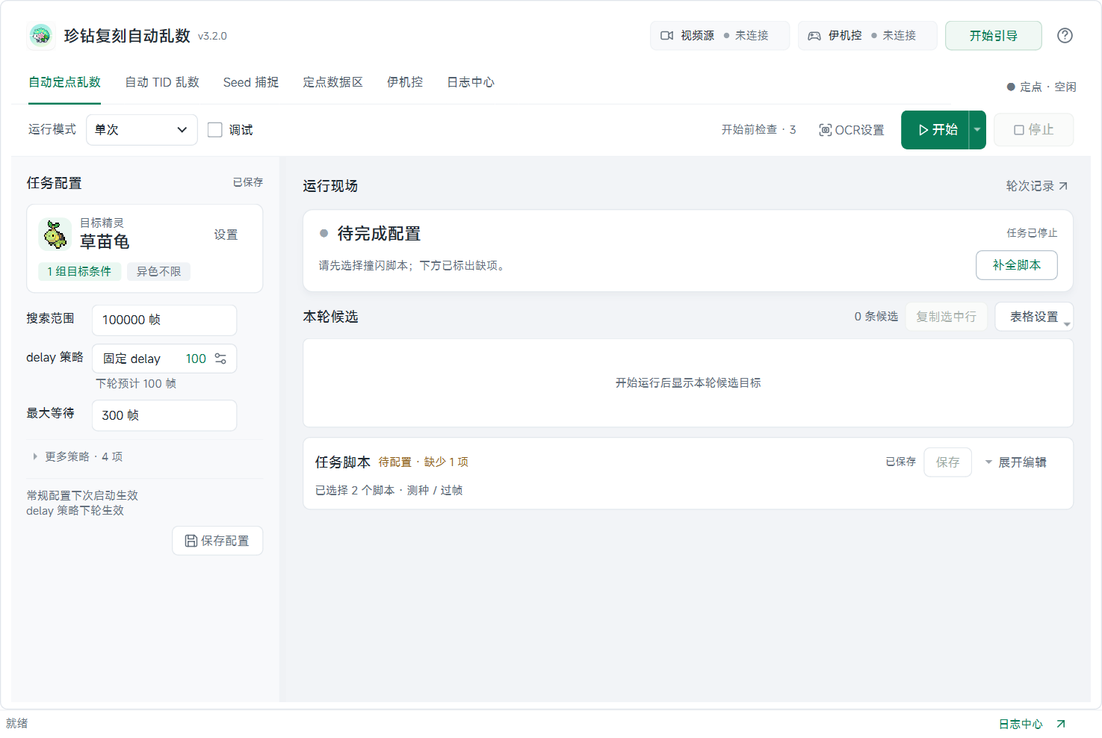
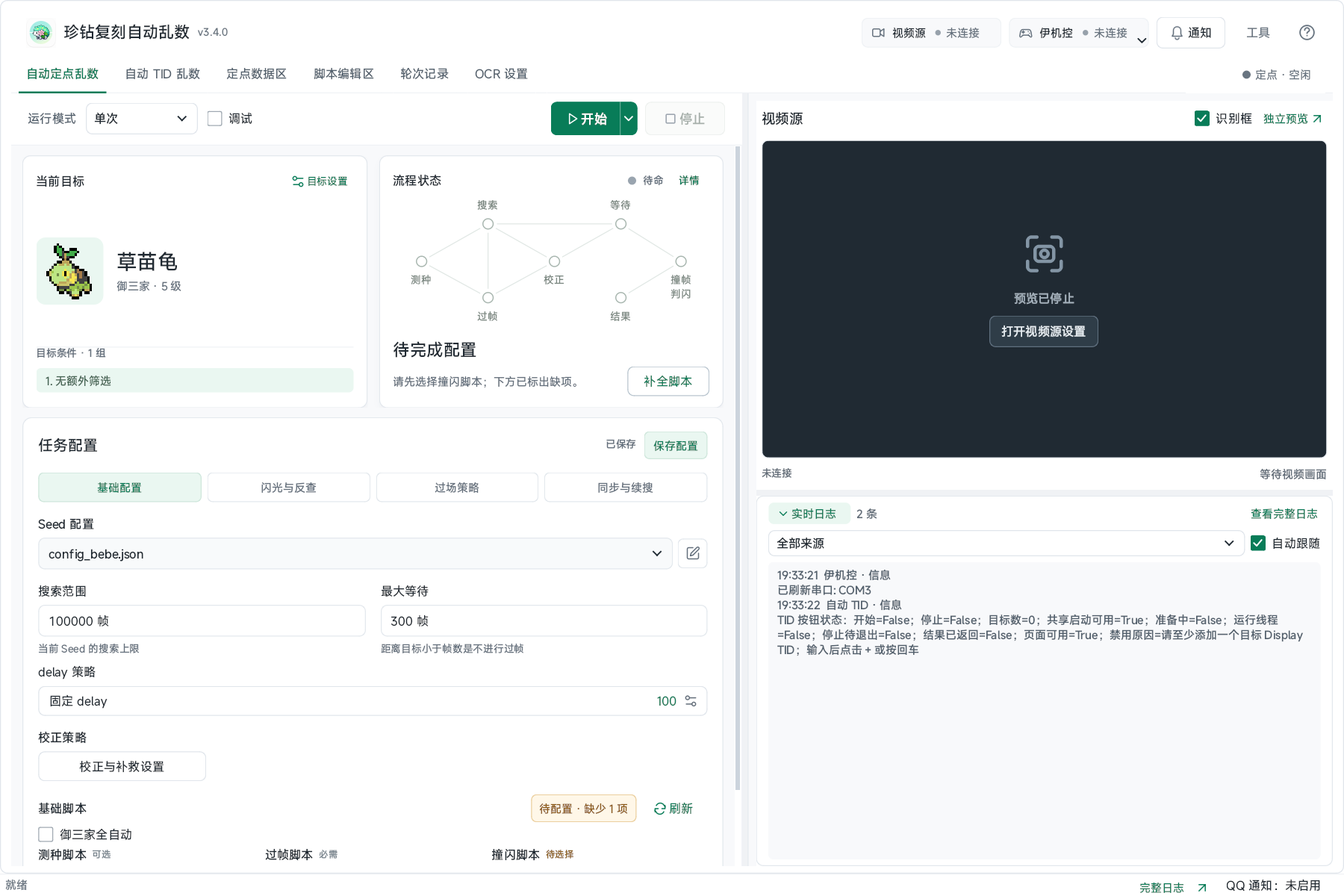
chore：准备 v3.4.0 发布并同步文档

diff --git a/src/auto_bdsp_rng/__init__.py b/src/auto_bdsp_rng/__init__.py
@@ -2,4 +2,4 @@
 
 __all__ = ["__version__"]
 
-__version__ = "3.3.3"
+__version__ = "3.4.0"

diff --git a/README.md b/README.md
@@ -26,21 +26,21 @@
 
 ![自动定点乱数工作区](docs/assets/screenshots/workspace.png)
 
-<p align="center"><sub>v3.3.0 源码的实际界面，展示未连接设备时的初始状态。</sub></p>
+<p align="center"><sub>v3.4.0 源码的实际界面，展示未连接设备时的初始状态。</sub></p>
 
-当前源码采用更宽的视频监看区域与整窗六页导航。自动定点在同一页展示目标卡片、流程状态和任务配置。[查看工作区布局与验收说明](docs/ui_rng_workspace_redesign.md)。
+v3.4.0 采用更宽的视频监看区域与整窗六页导航，新增御三家全自动，搜索与轮次记录支持后台处理和分页。自动定点在同一页展示目标卡片、流程状态和任务配置。[查看 3.4.0 更新说明](CHANGELOG.md#340) · [工作区布局与验收说明](docs/ui_rng_workspace_redesign.md)。
 
 ## 主要功能
 
 | 功能 | 可以做什么 |
 | --- | --- |
 | **自动定点乱数** | 串联测种、搜索、过帧、校正、撞闪、OCR 判闪与反查，支持多目标、单次及循环运行。 |
-| **御三家全自动** | 自动绑定测种与反查脚本，接管固定对话、Timeline、光标定位和精灵选择，未出闪后反查并循环。源码版可用，详见[使用指南](docs/USAGE.md#御三家全自动)。 |
+| **御三家全自动** | 自动绑定测种与反查脚本，接管固定对话、Timeline、光标定位和精灵选择，未出闪后反查并循环。v3.4.0 新增，详见[使用指南](docs/USAGE.md#御三家全自动)。 |
 | **自动 TID 乱数** | 搜索多个 Display TID，查看预计到达时间和取名倒计时，自动触发取名脚本。 |
 | **Seed 捕捉与定点搜索** | 基于 Project_Xs 眨眼恢复 Seed，按 PokeFinder 口径生成、筛选定点与游走候选。 |
 | **脚本与键盘控制** | 编辑、运行和录制 EasyCon 风格脚本，用键盘控制主机并自定义按键映射。 |
 | **OCR 与 delay 策略** | 识别性格、个性和能力值；按精灵保存反查样本，选择固定或动态 delay 策略。 |
-| **轮次记录与日志** | 查看每轮候选、运行结果和实际 delay，按来源与关键词筛选日志、复制或导出记录。 |
+| **轮次记录与日志** | 分页查看每轮候选、运行结果和实际 delay；独立日志窗口支持按轮次、来源与关键词筛选、复制或导出。 |
 | **QQ 通知** | 通过 QQ 开放平台机器人接收任务完成、异常和运行截图；支持私聊、群聊、图文测试与软件内绑定教程。 |
 
 ## 下载与安装
@@ -49,7 +49,7 @@
 
 下载入口始终指向最新已发布的正式版；请以 Release 页的版本号和 **Assets** 为准。
 
-v3.3.3 的源码改进包括自动 TID 取名时机、退出参数保存、开始按钮状态和跨电脑界面一致性修复。在该版本安装包发布前，这些改进仅在源码版可用。[查看本次更新 →](CHANGELOG.md#333)
+当前源码版本为 **v3.4.0**。在 v3.4.0 安装包发布前，本文介绍的御三家全自动、新工作区与响应性改进仅在源码版可用；下载入口仍以最新已发布的 Assets 为准。[查看本次更新 →](CHANGELOG.md#340)
 
 1. 在最新正式版 Release 页的 **Assets** 中下载 `auto-bdsp-rng-v<版本号>-windows-x64.zip`。
 2. 完整解压，进入 `auto-bdsp-rng` 文件夹。
@@ -78,17 +78,17 @@ v3.3.1 支持 Gitee 增量更新源：优先从国内源检查和下载增量更
 
 1. **连接画面** — 点击顶部「视频源」入口，选择采集卡并连接，优先使用「Media Foundation（推荐）」。
 2. **验证控制** — 点击顶部「伊机控」连接串口，用键盘控制或短脚本确认主机能收到按键。
-3. **完成测种** — 点击任务页 Seed 配置右侧的编辑按钮，在右侧视频中框选眼睛 ROI、截取眼睛模板，用「测试捕捉」验证并保存。独立手动操作从「工具 → 手动测种与校正」进入。
+3. **完成测种** — 点击任务页 Seed 配置右侧的编辑按钮，在右侧视频中框选眼睛 ROI、截取眼睛模板，用「测试捕捉」验证并保存。御三家全自动使用固定模板，仅调整 ROI 和匹配阈值。独立手动操作从「工具 → 手动测种与校正」进入。
 4. **核对识别与脚本** — 在 OCR 设置中执行「测试全部」，核对性格、个性和六项能力值；判闪计时区域单独测试。按游戏站位逐份验证所选脚本。
-5. **运行一次** — 在「自动定点乱数」中设置目标、筛选条件、脚本和基准 delay，完成开始前检查，选择「单次」后点击「开始」。
+5. **运行一次** — 在「自动定点乱数」中设置目标、筛选条件、脚本和基准 delay，选择「单次」后点击「开始」，按自动检查提示补齐配置。
 
 脚本和 delay 需要结合设备响应、游戏站位与队伍配置校准。建议先确认单次流程能够正常完成，再开启循环。自动 TID 的准备步骤见[自动 TID 使用说明](docs/USAGE.md#自动-tid-乱数)。
 
-> **v3.3.0 新增：QQ 通知与软件内绑定教程**
+> **QQ 通知与软件内绑定教程**
 >
-> 当前源码已加入 QQ 开放平台机器人通知。先打开 [QQ 开放平台机器人管理](https://q.qq.com/#/apps)，再在软件教程内填写 AppID、AppSecret，绑定私聊或群聊，等待动态更新的 60 秒绑定码，并发送带软件 Logo 的图文测试；自动乱数任务完成或异常时可接收通知。此功能已随 v3.3.0 发布。[了解 QQ 通知 →](docs/QQ_BOT_SETUP.md)
+> 先打开 [QQ 开放平台机器人管理](https://q.qq.com/#/apps)，再在软件教程内填写 AppID、AppSecret，绑定私聊或群聊，使用动态更新的 60 秒绑定码，并发送带软件 Logo 的图文测试；自动乱数任务完成或异常时可接收通知。此功能自 v3.3.0 起可用。[了解 QQ 通知 →](docs/QQ_BOT_SETUP.md)
 
-当前源码暂时移除引导模式，首次启动可直接进入工作区。脚本执行跟随、暂停修改和开始前检查继续可用。[查看使用步骤 →](docs/USAGE.md#首次使用)
+v3.4.0 移除旧分步引导模式，首次启动可直接进入工作区。脚本执行跟随、暂停修改和启动时自动检查继续可用。[查看使用步骤 →](docs/USAGE.md#首次使用)
 
 ## 文档
 
@@ -96,6 +96,7 @@ v3.3.1 支持 Gitee 增量更新源：优先从国内源检查和下载增量更
 | --- | --- |
 | 视频源、眼睛框选、测种与校正 | [使用指南](docs/USAGE.md#视频源与预览) |
 | 自动定点、delay、OCR 与反查 | [自动定点乱数](docs/USAGE.md#自动定点乱数) · [OCR](docs/USAGE.md#ocr) |
+| 御三家全自动的配置与时序限制 | [御三家全自动](docs/USAGE.md#御三家全自动) |
 | 脚本、录制与虚拟手柄快捷键 | [伊机控与脚本](docs/USAGE.md#伊机控与脚本) |
 | 轮次结果、错误与运行日志 | [轮次记录与日志](docs/USAGE.md#轮次记录与日志) |
 | 源码环境、CLI 与测试 | [开发指南](docs/DEVELOPMENT.md) |
@@ -123,6 +124,13 @@ v3.3.1 支持 Gitee 增量更新源：优先从国内源检查和下载增量更
 <summary><strong>能直接使用别人的 delay，或开着循环就保证出闪吗？</strong></summary>
 
 实际时序受设备、脚本和游戏现场影响，需要先验证测种、校正与判闪。动态 delay 依赖成功自动反查得到的有效样本，没有样本时使用基准值；每轮 delay 在轮次开始时冻结。长时间运行也需要避免 Windows 休眠。[策略与运行说明 →](docs/USAGE.md#自动定点乱数)
+
+</details>
+
+<details>
+<summary><strong>可以解压到中文目录吗？</strong></summary>
+
+v3.4.0 修复中文和含空格路径下的图片保存与 OCR 初始化问题，无需修改 Windows 区域设置。模型需要英文路径时，软件会自动准备可写缓存；特殊权限环境可指定缓存目录。[OCR 与缓存说明 →](docs/USAGE.md#ocr)
 
 </details>
 

diff --git a/CHANGELOG.md b/CHANGELOG.md
@@ -1,3 +1,52 @@
+# 3.4.0
+
+本次汇总 v3.3.3 之后的 37 个提交（截至 `08cd090`），新增御三家全自动流程，重整工作区、轮次记录和日志，并改善大范围搜索、设备操作及中文路径下的 OCR 体验。
+
+### 御三家全自动
+
+- 选择同一种草苗龟、小火焰猴或波加曼后，可在「任务配置 → 基础配置 → 基础脚本」开启「御三家全自动」。软件自动绑定内置测种、反查脚本，接管固定对话、Timeline、光标定位和精灵选择，无需另选过帧或撞闪脚本；支持单次、指定次数和无限循环。
+- 固定使用 `config_starter.json`，仅开放眼睛 ROI 和匹配阈值编辑，眼睛模板与流程时序锁定；临时应用的时序不会改写配置文件，关闭全自动后恢复普通配置选择。
+- 首次启用且没有已有 delay 配置或样本时，预设 delay 为 66 帧；每轮开始冻结 delay，反查样本从下一轮生效。固定 200 帧 Timeline 窗口要求实际 delay 小于 78 帧，启动及轮次切换时会检查。
+- 御三家判闪阈值默认改为 5 秒，并与普通定点分别保存；旧默认 4 秒迁移为 5 秒，其他自定义值保留。疑似出闪后录像并停止，判定未知或关键对话失败时停止。
+- 搜索时为退出放大模式、OCR 确认和固定对话预留准备时间，跳过来不及的目标。错过时机不再选择精灵或执行反查，轮次记录明确标为「错过」；手动停止按停止阶段记录，不误报失败或未出闪。
+- 同步内置及脚本库的御三家反查脚本到 `bdsp-starter-reverse 0.0.5`。
+
+### 工作区与配置
+
+- 主导航调整为「自动定点乱数」「自动 TID 乱数」「定点数据区」「脚本编辑区」「轮次记录」「OCR 设置」六页，右侧视频和实时日志在切页时持续显示；窄窗口下表单自动调整布局。
+- 自动定点用目标卡片和流程状态展示本轮进度，实时帧数、阶段记录及候选从「详情」查看；任务参数、策略和脚本按组整理，脚本选择支持名称关键词搜索。自动定点与 TID 的「保存配置」统一保存参数和脚本选择。
+- Seed 配置在任务页直接展开编辑、测试捕捉、保存或取消；独立测种与校正从「工具 → 手动测种与校正」进入。视频上叠加可复制 Seed、当前 RNG 帧数、匹配分数、阈值和眨眼进度，框选时隐藏，原始画面与截图不受影响。
+- OCR 设置移至独立标签页，集中宝可梦信息、判闪计时与 TID 区域，切页保留配置和测试结果；可直接使用右侧视频框选和识别。
+- 定点数据区合并目标、队首、Seed 和范围表单，筛选条件可折叠；手动生成后收起条件，自动回填与后台刷新保留用户展开状态，摘要显示实际用于搜索的参数。
+- 移除旧分步引导模式和常驻的「开始前检查」按钮，首次启动直接进入工作区；启动任务仍自动检查设备、眼图、脚本和 OCR，QQ 通知绑定教程继续可用。
+
+### 伊机控与脚本
+
+- 连接设置、虚拟手柄和按键映射集中到顶部全局「伊机控」菜单，所有工作区均可访问。虚拟手柄使用独立浮窗，脚本编辑器获得更多空间；菜单展开时映射按键用于菜单操作，关闭后恢复原控制或待机状态。
+- 优化紧凑工具栏、脚本库、可折叠输出和运行状态，保留录制、执行跟随及暂停后修改未执行代码的能力；脚本报错可定位主脚本或库文件对应行。
+
+### 轮次记录与日志
+
+- 「轮次记录」直接展示每轮结果、Seed、锁定 Adv、完整候选快照和处理详情；「查看本轮日志」打开独立完整日志窗口并定位所选运行与轮次。
+- 修复新轮次沿用旧候选、过滤后快照与锁定目标不一致，以及反查结果覆盖原搜索候选计数的问题；搜索候选和反查匹配数分别记录。
+- 实时日志可按来源筛选、折叠和恢复；完整日志窗口支持来源、级别、关键词、复制和导出，关闭窗口后继续收集。警告与错误显示待查看数量，任务入口与历史轮次入口保留各自筛选上下文。
+- 轮次、候选及处理详情每页最多 100 条，完整快照保存在会话临时存储中；搜索、复制和导出覆盖全部记录。退出后释放临时历史，需要留存时请提前导出；磁盘运行日志仍按最近七个自然日保存。
+
+### 响应性与稳定性
+
+- 定点与 TID 大范围查询在后台执行，支持取消并丢弃过期结果；结果超过 200 条时分页，大量数据的排序、筛选和前缀查找覆盖全部页，保留当前个体选择及目标定位。
+- 大量结果、轮次记录的完整复制和导出在后台准备，可在准备阶段取消；取消或准备失败保留原剪贴板和已有文件。导出进入保存阶段后完成本次保存，关闭程序会等待保存结果。
+- 优化视频预览、首帧等待、设备枚举、连接取消和后台断开；快速切换来源不再显示旧画面或旧 OCR 结果，无缓存时的框选与 TID 识别可以取消。修复 Windows 虚拟环境启动视频源时进程号不一致的问题。
+- Seed 校正支持取消原生及 Python 回退计算；自动校正先搜索预计帧附近，未命中时复用观测扩大范围，减少长距离过帧后的漏搜。
+- 减少高频脚本输出的界面事件，超长内容仅保留显示尾部并提示截断；启用磁盘日志时保留完整输出。开启日志保存后，持续超过 2 秒的界面卡顿会留下线程堆栈诊断，便于定位问题。
+
+### 中文路径与升级提示
+
+- 修复中文或含空格目录下的图片读取、截图保存、眼睛模板更新与 OCR 初始化；模板写入失败时保留旧文件。Paddle 模型和伊机控 Tesseract 语言数据在需要时使用经过校验的英文缓存路径，无需修改 Windows 区域设置。
+- 保留可写的 `PADDLE_PDX_CACHE_HOME`；缓存目录只读、不兼容或路径过长时自动选择其他可写位置。特殊环境可通过 `AUTO_BDSP_RNG_NATIVE_CACHE_HOME` 指定可写的纯英文绝对路径，首次准备缓存可能稍慢。
+- 更新首页截图、使用指南、开发与发布检查说明；打包校验覆盖中文安装目录、空格路径及实际 OCR 推理。
+- 旧版可从「帮助 → 检查更新…」升级；没有可用增量链时下载完整绿色包。用户修改过的脚本、Project_Xs 配置和自定义眼图继续保留，新默认文件可能以 `.new-v3.4.0` 副本提供；使用自定义御三家反查脚本时请对照新版后再合并。
+
 # 3.3.3
 
 本次汇总 v3.3.2 之后的自动 TID、跨电脑界面一致性和发布打包修复。

diff --git a/RELEASE.md b/RELEASE.md
@@ -23,7 +23,45 @@ Before the new package is published, identify features documented from `main` as
 
 Review every commit from the latest published tag through the release commit. Summarize the final user-visible behavior in the new changelog section, including fixes already committed to `main` but absent from the last package; omit abandoned approaches and unrelated local drafts.
 
+Also review `README.md`, `docs/USAGE.md`, `docs/DEVELOPMENT.md`, `BUILD.md`, and this checklist for changed entry points, defaults, and operational behavior. Refresh the README screenshot when the workspace layout changes and update `docs/assets/screenshots/README.md` with the actual version and capture conditions. Historical changelog entries and dated design evidence describe their original versions and should not be rewritten as current behavior.
+
 The release workflow refuses to publish when the pushed tag, `pyproject.toml`, package `__version__`, and matching changelog heading disagree.
+
+## v3.4.0 Release Scope
+
+The previous published release is **v3.3.3** (`5af44d2`, published 2026-10-03).
+This release reviews all **37 commits** in `v3.3.3..08cd090`, followed by the
+v3.4.0 metadata and documentation commit. The user-facing notes live only in
+the [3.4.0 changelog section](CHANGELOG.md#340); the workflow generates the
+GitHub Release body from that section.
+
+This is a minor release for the new starter automation and workspace behavior.
+Review these release-specific cases in addition to the general checks below:
+
+- Exercise all three starter species, built-in script/config binding, ROI/threshold-only editing, existing delay preservation, the 66-frame initial preset, the strict delay `< 78` limit, and the separate 5-second shiny threshold. Verify successful reverse lookup, missed targets, unknown shiny checks, and user stop; missed targets must not select a Pokemon or run reverse lookup.
+- Check all six workspace tabs, inline Seed configuration, the manual tools entry, standalone OCR settings, global controller menu, script error navigation, and direct welcome-page entry. The removed RNG guide must not restart from old settings; the QQ tutorial must still work.
+- Check static/TID pagination, whole-result sorting/search, target selection, cancellation, and clipboard/CSV/TXT output. Copy/export must include all applicable results, preserve old content on preparation cancellation, and complete a save already in progress before shutdown.
+- Check new-round candidate refresh, locked-target snapshots, separate search/reverse counts, and historical round log context. Verify 100-row history pages and full export before session history is released on exit.
+- Check slow device enumeration, connect/cancel/disconnect, source switching, first-frame cancellation, and shutdown with real capture/serial hardware. Confirm stopped calibration does not retry and old frames/OCR results cannot replace the new source.
+- Run the packaged Chinese/space-path image and real OCR probes, including a Chinese user profile and unwritable cache fallback. Confirm both bundled starter scripts and the Project_Xs template exist in the frozen package.
+- Apply the v3.3.3-to-v3.4.0 update to a disposable copy with modified scripts, Project_Xs configs, and custom eye images. Existing files must survive; changed defaults use `.new-v3.4.0` sidecars. Export needed session history before closing the old app.
+
+Expected artifacts are `auto-bdsp-rng-v3.4.0-windows-x64.zip`,
+`auto-bdsp-rng-v3.4.0-windows-x64.manifest.json`, and, when the v3.3.3 manifest
+is available, `auto-bdsp-rng-v3.3.3-to-v3.4.0-windows-x64.update.zip`.
+Automated tests and offscreen screenshots do not establish real-hardware or
+frozen-package validation; record those results from their actual runs.
+
+Local preparation verified on 2026-10-12: the complete pytest suite finished
+with **2,374 passed, 1 skipped, 0 failed**. The skipped sidecar-path case requires
+Windows symbolic-link creation privileges (`WinError 1314`); the run also
+reported existing Qt `invalidateFilter()` deprecation warnings. The CLI reports
+3.4.0, the release-notes generator accepts `v3.4.0`, and UTF-8, local document
+links, and Git whitespace checks pass. The README screenshot was rendered and
+inspected at 1440 × 960 logical pixels / DPR 1.25 with isolated settings and
+no connected hardware. Frozen-package builds, real-hardware checks, and an
+actual v3.3.3 package upgrade remain to be performed; local preparation does
+not publish the GitHub Release.
 
 ## Build And Test
 
@@ -53,8 +91,8 @@ Confirm:
 - `release/auto-bdsp-rng-vX.Y.Z-windows-x64.zip` exists,
 - `release/auto-bdsp-rng-vX.Y.Z-windows-x64.manifest.json` exists and lists the complete `dist/auto-bdsp-rng/` tree,
 - `release/release-notes.md` shows the intended **本次更新** content.
-- “帮助 -> 检查更新…” performs a manual check without any startup network request; source mode only offers the Release page.
-- the shared light UI style and bounded chevrons render consistently at 100%, 125%, and 150% scaling; the log view buttons and session status stay aligned at 860×600 and 1150×900, and view switching, unread counts, and split-button menus remain functional,
+- “帮助 -> 检查更新…” performs a manual check; startup checks follow “帮助 -> 启动时自动检查更新” (enabled by default), show a prompt only for a newer release, and respect the saved opt-out. Source mode only offers the Release page.
+- the shared light UI style and bounded chevrons render consistently at 100%, 125%, and 150% scaling; the six tabs, monitor, real-time log, and independent full-log window remain usable at 860×600 and 1150×900, with working pagination, unread counts, per-round log context, and split-button menus,
 - both sponsor QR images were restored and verified by the build; private images remain excluded from Git.
 
 To test an incremental artifact locally, download the previous Release manifest and run:

diff --git a/docs/DEVELOPMENT.md b/docs/DEVELOPMENT.md
@@ -39,9 +39,19 @@ py -3.12 -m venv .venv
 
 - 主程序通过 `ui/workspace_style.py` 在创建页面前统一安装基于 Fusion 的浅色 Qt 风格。箭头使用固定逻辑尺寸的线条绘制，不依赖 Windows 系统风格插件；保留 `ui_scale.py` 的 DPI 和界面倍率处理。
 - 页面仍复用 `ui/workspace_theme.py` 的颜色、尺寸及随包 MiSans 字体。主导航的 QSS 只作用于直接子标签栏，避免把样式传到内嵌页面。
-- 日志页切换按钮和会话状态由同一个水平布局管理，避免组合原生标签栏底线与角落控件。业务页面切换、未读计数和轮次过滤沿用现有逻辑。
+- v3.4.0 将轮次记录留在主导航，完整日志由共享 `RunLogBuffer` 驱动的独立非模态窗口展示，右栏保留实时日志。任务、历史轮次和实时区入口分别传入运行/轮次或来源上下文；窗口关闭后继续收集消息，警告与错误的未读提示由共享状态更新。
 - 延迟更新布局时给 `QTimer.singleShot` 传入控件上下文，确保控件销毁后取消回调。
-- 涉及控件绘制或布局的改动，至少检查 100%、125%、150% 缩放及 860×600、1150×900 窗口；相关回归测试为 `test_workspace_style.py`、`test_run_records_ui.py`、`test_responsive_layout.py` 和 `test_ui_font_loading.py`。
+- 涉及控件绘制或布局的改动，至少检查 100%、125%、150% 缩放及 860×600、1150×900 窗口；相关回归测试为 `test_workspace_style.py`、`test_run_records_ui.py`、`test_log_window_ui.py`、`test_responsive_layout.py` 和 `test_ui_font_loading.py`。
+
+## 搜索、结果与历史记录
+
+定点与 TID 查询使用后台工作线程和请求代次，取消或收到新 Seed 后不再应用旧结果。原生生成和校正释放 GIL，并通过取消令牌终止；Python 回退保留同一取消语义。更新原生接口后应重新执行 editable install，避免本机残留的旧 `_native.pyd` 掩盖接口变化。
+
+`ui/result_paging.py` 将定点与 TID 表限制为每页 200 行，排序、筛选和前缀查找基于完整数据；选中项以原始结果身份恢复。`ui/result_transfer.py` 在点击时固定结果、语言、能力值和日期基准，在后台准备完整复制或导出；准备阶段取消或失败时保留原剪贴板和已有文件，进入写入提交阶段后等待终态，以原子替换完成保存。
+
+`ui/history_archive.py` 为会话历史提供临时归档，轮次、候选与处理详情每页最多 100 条。生产端在后台整理快照，归档积压时等待容量，取消时解除等待；归档失败回滚并保留可用的内存记录。全量搜索、复制和导出独立于当前可见页，退出时释放临时存储。
+
+相关回归覆盖 `test_search_performance.py`、`test_result_transfer.py`、`test_reidentify_cancellation.py`、`test_history_performance.py` 及 `test_history_producer_*.py`。大量结果的布局可用 `scripts/render_search_results_review.py --dpi 100`（另验 125、150）检查；`scripts/benchmark_history_ui.py` 用于历史归档与界面响应基准，实测结果应连同机器条件记录。
 
 ## 视频、关闭与日志响应性
 

diff --git a/BUILD.md b/BUILD.md
@@ -18,6 +18,12 @@ Clone the repository with submodules, or let the build script initialize them:
 git submodule update --init --recursive
 ```
 
+Build distributable packages from a clean checkout, including submodules.
+The builder copies Project_Xs configs and images as well as the outer `script`
+directory, so a development checkout can include personal calibration or custom
+eye images. Preserve those local files and use a separate clean checkout or the
+GitHub Actions tag build for publication.
+
 ## One-Command Build
 
 ```powershell
@@ -89,11 +95,37 @@ The application packages its Python EasyCon parser/runtime, `pyserial`, and the 
 
 ## First-launch WebView
 
-The first-launch mode chooser uses PySide6 Qt WebEngine and QWebChannel to load
+The first-launch welcome page uses PySide6 Qt WebEngine and QWebChannel to load
 `docs/assets/welcome/index.html` locally. The existing PySide6 collection and
 PyInstaller Qt WebEngine hooks collect the Chromium helper process and runtime
 resources; the `docs/assets` release-copy step includes the HTML page. Keep these
 files with the executable. The page uses system fonts and does not fetch web assets.
+Starting with v3.4.0, it opens the workspace directly; the old experience-level
+chooser and step-by-step RNG guide are removed. The QQ binding tutorial still
+uses WebEngine, so its runtime and tutorial assets remain required.
+
+## v3.4.0 Runtime Assets
+
+Rebuild the C++ extension from this release's sources. Generation and
+reidentification now expose cancellation support; do not reuse an older
+`_native.pyd` when validating the release.
+
+The starter automation requires both `seed.ecs` and `reverse.ecs` under
+`auto_bdsp_rng/automation/auto_rng/starter_assets`, plus the bundled Project_Xs
+`config_starter.json` and its eye template. Keep the separate user-editable
+`script/御三家反查.txt` in the outer script directory. Automatic starter mode
+uses the bundled scripts even when a user has customized the outer copy.
+
+The release notes are generated from the current changelog after version
+validation:
+
+```powershell
+python .\scripts\generate_release_notes.py --tag v3.4.0 --output .\release\release-notes.md
+```
+
+The expected complete archive is `release/auto-bdsp-rng-v3.4.0-windows-x64.zip`.
+Use a manifest from v3.3.3 to check the direct incremental upgrade; see
+[RELEASE.md](RELEASE.md) for the publication and regression checklist.
 
 ## UI And Sponsor Assets
 

diff --git a/docs/assets/screenshots/README.md b/docs/assets/screenshots/README.md
@@ -1,11 +1,14 @@
 # README 界面截图
 
-`workspace.png` 为 v3.3.0 源码在 Windows 下直接渲染的 PySide6
-主窗口，逻辑尺寸 1180 × 790，DPR 1.25，拍摄于 2026-09-17。
+`workspace.png` 为 v3.4.0 源码在 Windows 下直接渲染的 PySide6
+主窗口，逻辑尺寸 1440 × 960，DPR 1.25，图片尺寸 1800 × 1200，
+拍摄于 2026-10-12。
 
-截图使用隔离的临时设置，展示自动定点乱数的初始配置状态，未连接
-采集卡或串口，未运行游戏脚本，也未填入模拟候选或出闪结果。
-「开始引导」为 v3.2.0 新增功能；QQ 通知与软件内绑定教程为 v3.3.0 新增功能。
+截图使用隔离的临时 INI/应用设置、离屏 Qt 窗口和测试用模拟控制后端，
+展示自动定点乱数的初始配置状态。未连接采集卡或串口，未运行游戏脚本，
+也未填入模拟候选或出闪结果；日志中的端口来自模拟枚举，不是用户设备。
+截图展示六页导航、目标与流程状态卡片、任务配置及全局视频/实时日志。
+v3.4.0 已移除旧分步引导，QQ 通知及其软件内绑定教程保留。
 
 界面图标与字体的来源分别见 [宝可梦图标说明](../pokemon/README.md)
 和 [MiSans 字体说明](../fonts/README.md)。更新首页截图时应同步版本说明，
